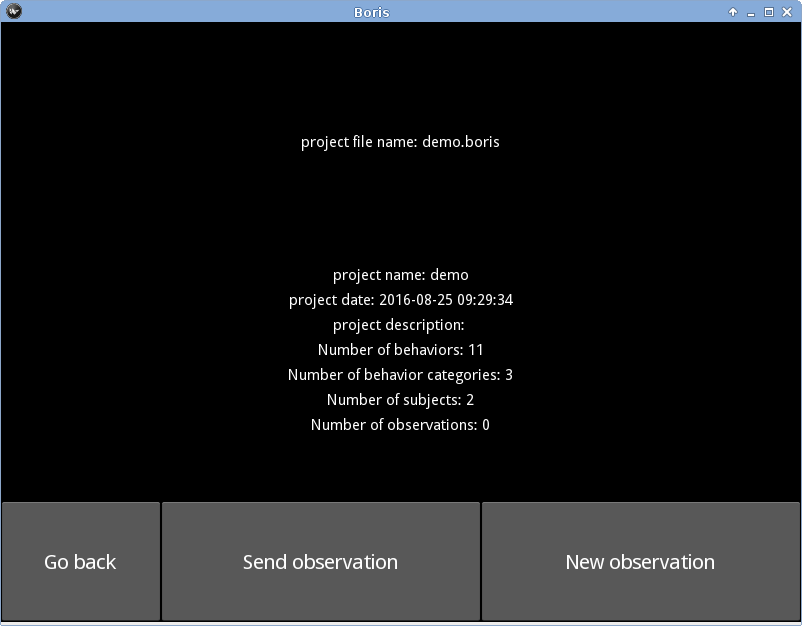
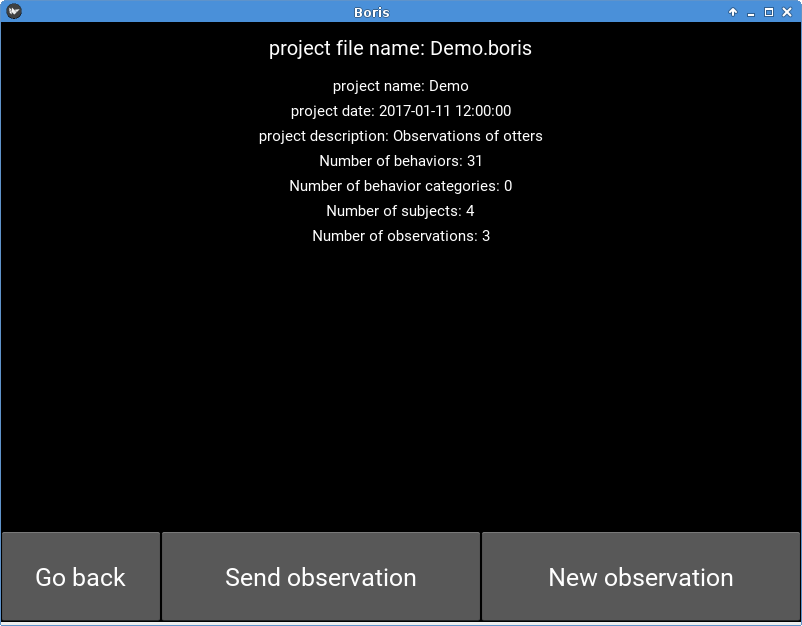
update

diff --git a/index.rst b/index.rst
@@ -148,7 +148,10 @@ Open the project
 * Press the **Open project** button
 
 
+BORIS App will show a summary of the selected project:
 
+.. image:: project_details.png.png
+   :scale: 50%
 
 
 Start a new observation
